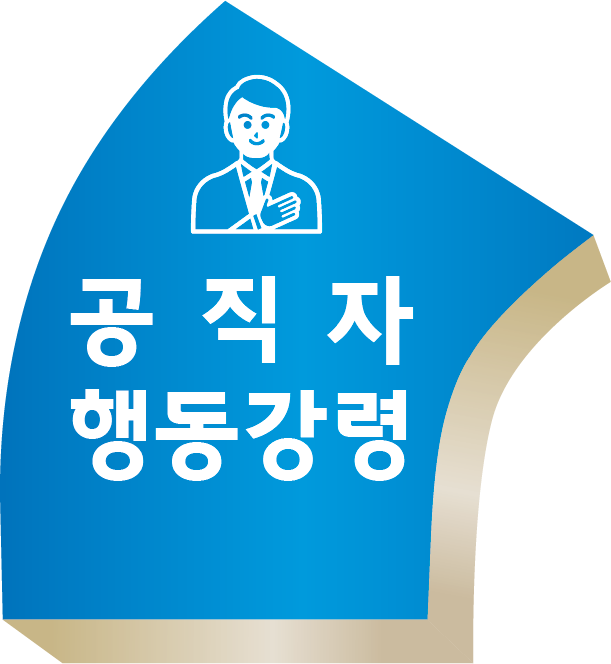
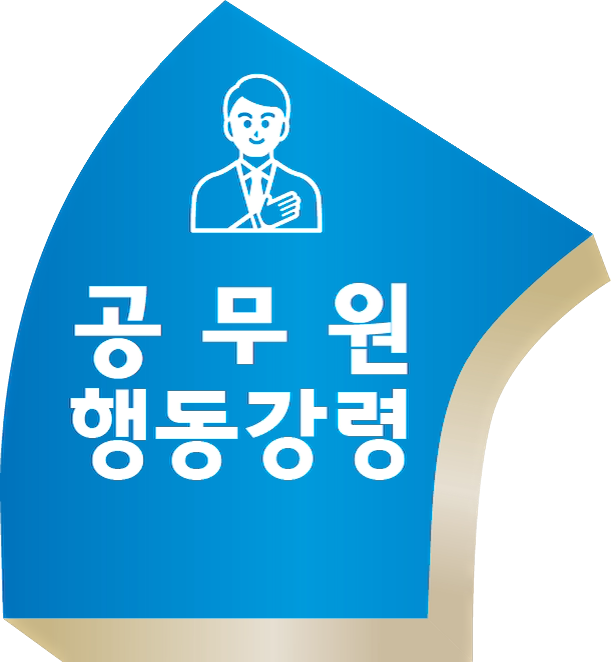
pwa v4.2

diff --git a/index.html b/index.html
@@ -68,7 +68,7 @@
                     </label>
                     <label class="menu" id="action_menu" for="action--checkbox">
                         <input type="checkbox" id="action--checkbox" />
-                        <i class="fa-solid fa-check"></i>&nbsp;&nbsp;공직자
+                        <i class="fa-solid fa-check"></i>&nbsp;&nbsp;공무원
                         행동강령
                     </label>
                     <label
